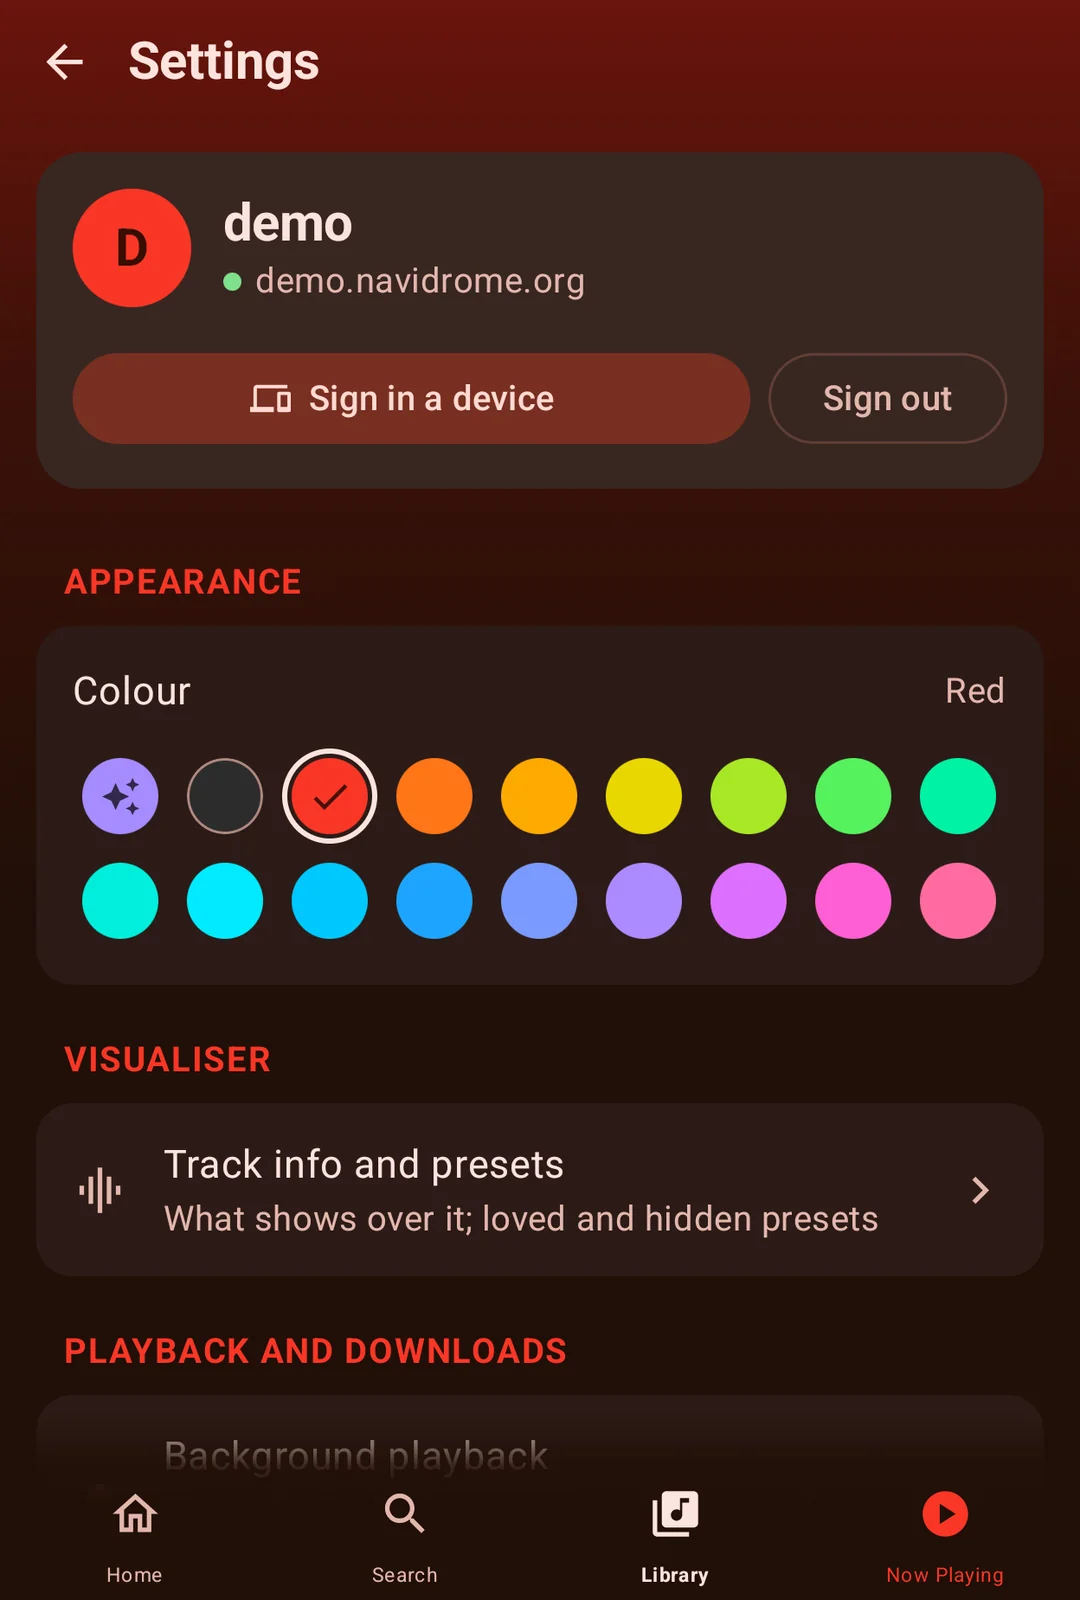
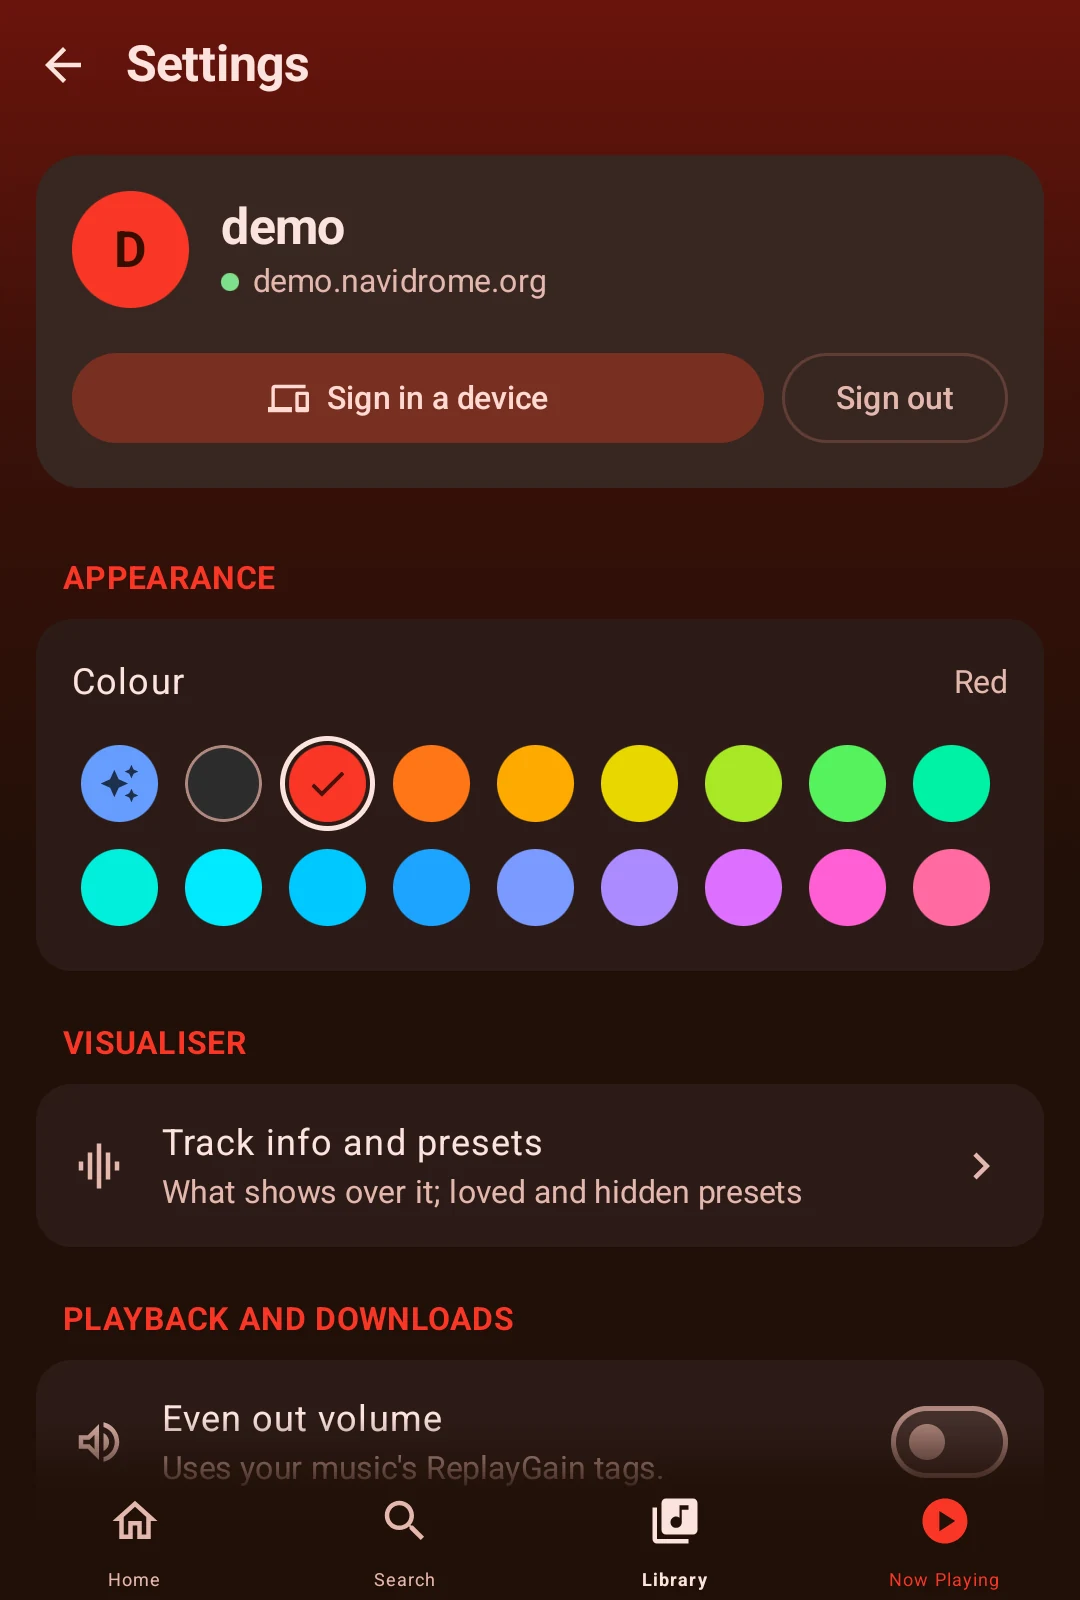
Settings screenshot shows Even out volume; coverage re-checked after a scan
Claude-Session: https://claude.ai/code/session_015p4Bo4hziARF8pyptBC4NM

diff --git a/app/src/main/java/eu/bradshaw/seidr/playback/LoudnessCoverage.kt b/app/src/main/java/eu/bradshaw/seidr/playback/LoudnessCoverage.kt
@@ -34,10 +34,13 @@ class LoudnessCoverage(context: Context, private val settings: Settings, private
         scope.launch { settings.server.collect { _fraction.value = stored() } }
     }
 
-    /** At app start: samples the library again if a day has passed. */
-    fun refresh() {
+    /**
+     * Samples the library again: at app start if a day has passed, or after a
+     * scan ([soon]) if ten minutes have.
+     */
+    fun refresh(soon: Boolean = false) {
         val url = settings.server.value?.url ?: return
-        if (System.currentTimeMillis() - prefs.getLong("rg_checked:$url", 0) < DAY_MS) return
+        if (System.currentTimeMillis() - prefs.getLong("rg_checked:$url", 0) < if (soon) SOON_MS else DAY_MS) return
         scope.launch {
             val songs = runCatching { client.strict.getRandomSongs(SAMPLE).ok().randomSongs?.song }.getOrNull() ?: return@launch
             if (songs.isEmpty()) return@launch
@@ -54,6 +57,7 @@ class LoudnessCoverage(context: Context, private val settings: Settings, private
     companion object {
         private const val SAMPLE = 500
         private const val DAY_MS = 24 * 60 * 60 * 1000L
+        private const val SOON_MS = 10 * 60 * 1000L
         /** Mostly tagged: the untagged rest are turned down to match ([Loudness.UNTAGGED_DB]). */
         const val THRESHOLD = 0.8f
 

diff --git a/app/src/main/java/eu/bradshaw/seidr/Graph.kt b/app/src/main/java/eu/bradshaw/seidr/Graph.kt
@@ -151,6 +151,8 @@ class Graph(val app: Application) {
         if (change == Change.MUSIC) {
             library.forgetMusic()
             kidView.value?.library?.forgetMusic()
+            // Tags may have changed (say, ReplayGain added): sample the library again.
+            loudness.refresh(soon = true)
         }
         _changes.tryEmit(change)
     }
